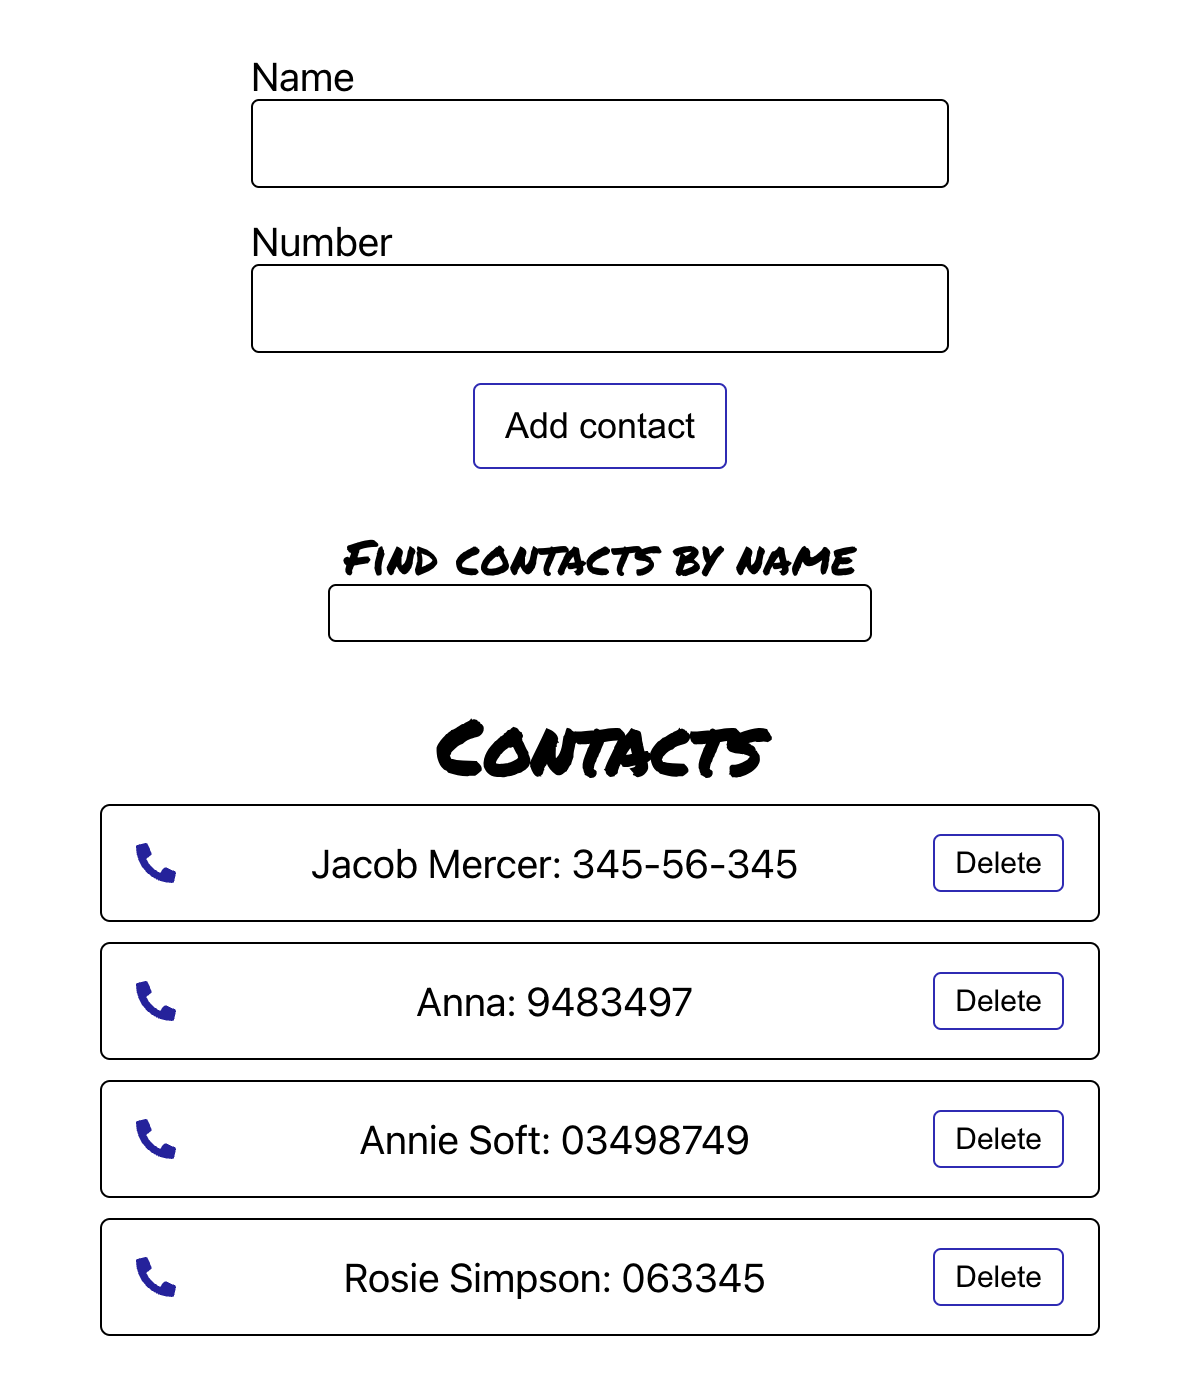
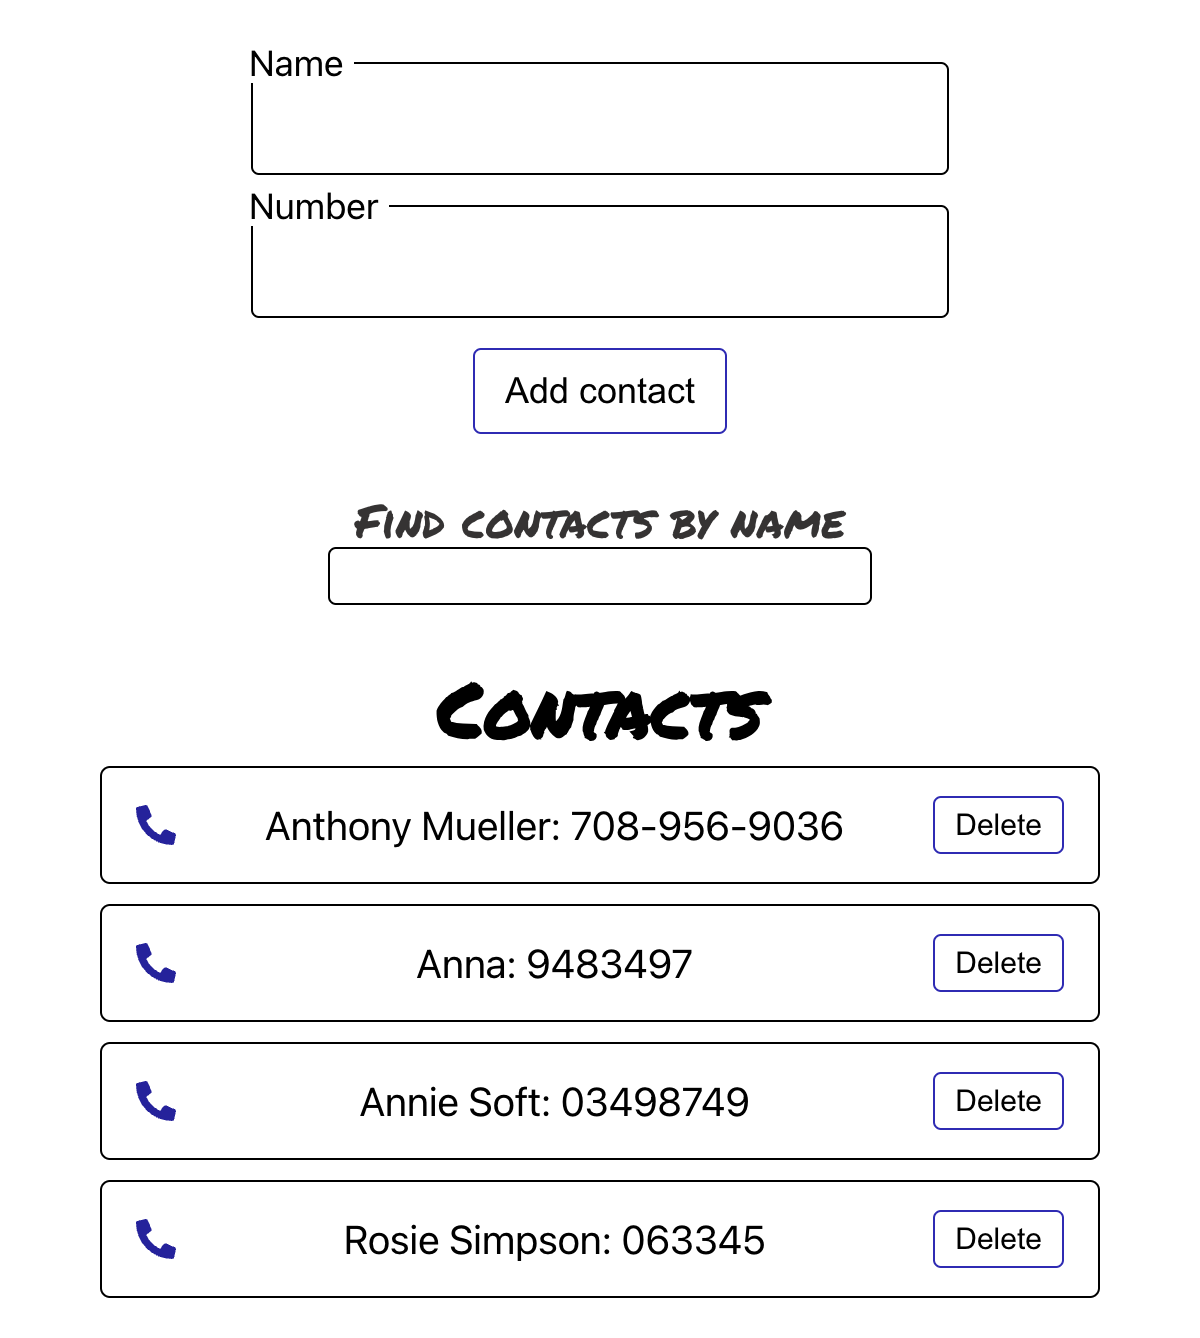
Change preview img and some styles

diff --git a/src/components/Finder/Finder.jsx b/src/components/Finder/Finder.jsx
@@ -3,7 +3,7 @@ import { setFilter } from 'redux/contacts/filterSlice';
 import css from './Finder.module.css';
 import styles from 'css/input.module.css';
 
-const { finderTitle, finderInput } = css;
+const { finder_title, finder_input } = css;
 
 const Finder = () => {
   const dispatch = useDispatch();
@@ -15,12 +15,12 @@ const Finder = () => {
 
   return (
     <>
-      <h3 className={finderTitle}>Find contacts by name</h3>
+      <h3 className={finder_title}>Find contacts by name</h3>
       <input
         type="text"
         name="finder"
         onChange={handleFinderChange}
-        className={`${styles.input} ${finderInput}`}
+        className={`${styles.input} ${finder_input}`}
       ></input>
     </>
   );

diff --git a/src/components/Finder/Finder.module.css b/src/components/Finder/Finder.module.css
@@ -1,11 +1,11 @@
-.finderTitle {
+.finder_title {
     margin-top: 30px;
-    font-size: 24px;
+    font-size: 23px;
     font-weight: 100;
-    color: #292929;
+    color: #363333;
 }
 
-.finderInput {
+.finder_input {
     width: 250px;
     padding: 5px 10px;
     font-size: 15px;

diff --git a/src/components/LogIn/LogIn.module.css b/src/components/LogIn/LogIn.module.css
@@ -6,7 +6,8 @@
     background-image: url(images/background_2.jpg);
     background-repeat: no-repeat;
     background-position: center;
-    background-size: contain;
+    /* background-size: contain; */
+    background-size: cover;
     height: 100vh;
 }
 
